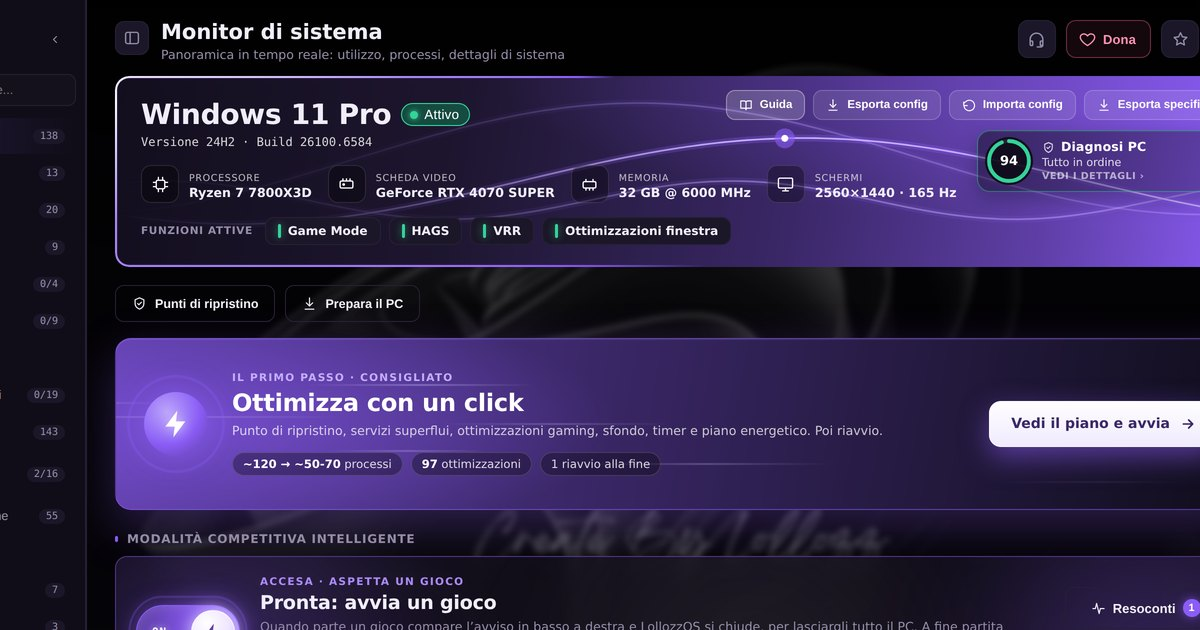
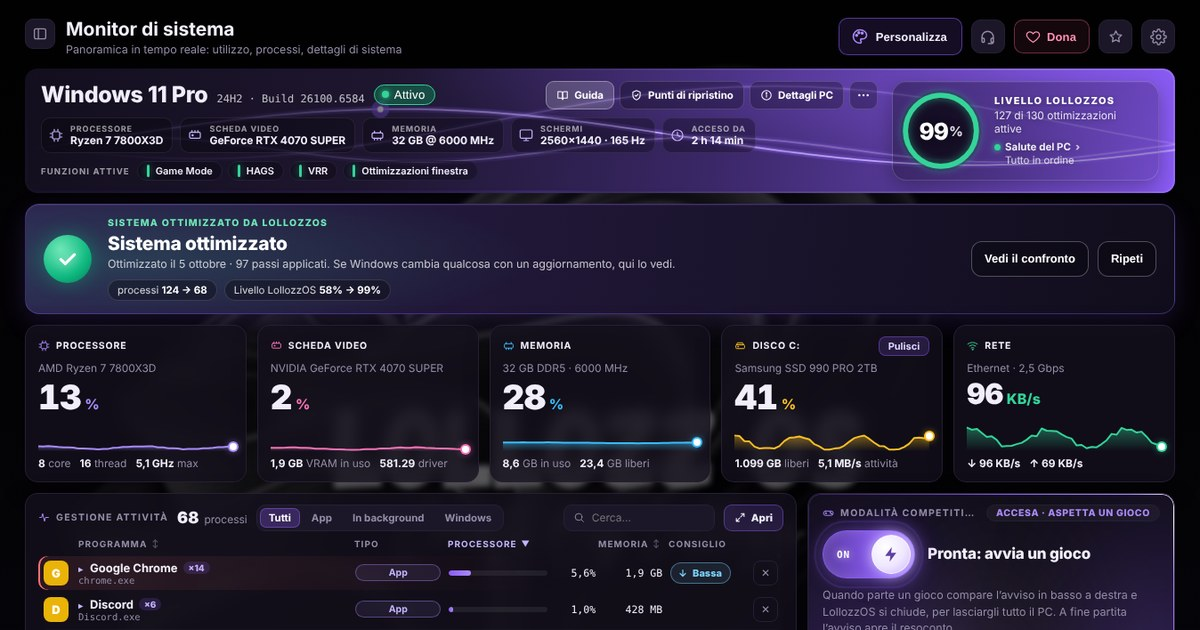
Add files via upload

diff --git a/docs/index.html b/docs/index.html
@@ -11,8 +11,8 @@
 <meta property="og:type" content="website">
 <meta property="og:title" content="LollozzOS — Il tuo PC, pronto per giocare">
 <meta property="og:description" content="Ottimizzazione di Windows per il gaming in un'app sola. Tutto reversibile. Prova gratuita di 24 ore.">
-<meta property="og:image" content="https://lollozzos.github.io/LollozzOs_Configurator/assets/og.jpg">
-<meta property="og:url" content="https://lollozzos.github.io/LollozzOs_Configurator/">
+<meta property="og:image" content="https://lollozzos.github.io/LollozzOs/assets/og.jpg">
+<meta property="og:url" content="https://lollozzos.github.io/LollozzOs/">
 <meta name="twitter:card" content="summary_large_image">
 <style>
 :root {
@@ -338,7 +338,7 @@ footer { margin-top: 90px; border-top: 1px solid var(--border); padding: 36px 0 
         <button type="button" data-lang="it" aria-pressed="true">IT</button>
         <button type="button" data-lang="en" aria-pressed="false">EN</button>
       </div>
-      <a class="btn btn-p btn-s" href="https://github.com/LollozzOS/LollozzOs_Configurator/releases/latest" data-t="scarica-s">Scarica</a>
+      <a class="btn btn-p btn-s" href="https://github.com/LollozzOS/LollozzOs/releases/latest" data-t="scarica-s">Scarica</a>
       <button class="menu-btn" type="button" id="menu-btn" aria-expanded="false" aria-controls="nav" aria-label="Menu"><svg class="i"><use href="#i-menu"/></svg></button>
     </div>
   </div>
@@ -353,7 +353,7 @@ footer { margin-top: 90px; border-top: 1px solid var(--border); padding: 36px 0 
         <h1 data-t="h1">Il tuo PC, <span class="grad">pronto per giocare.</span></h1>
         <p class="lead" data-t="lead">LollozzOS mette in un’app sola quello che di solito è sparso fra decine di script, guide e programmi: meno processi in background, rete e scheda video impostate per il gioco, configurazioni pronte per i tuoi giochi. E ogni modifica si annulla.</p>
         <div class="cta">
-          <a class="btn btn-p" href="https://github.com/LollozzOS/LollozzOs_Configurator/releases/latest"><svg class="i"><use href="#i-down"/></svg><span data-t="scarica">Scarica LollozzOS</span></a>
+          <a class="btn btn-p" href="https://github.com/LollozzOS/LollozzOs/releases/latest"><svg class="i"><use href="#i-down"/></svg><span data-t="scarica">Scarica LollozzOS</span></a>
           <a class="btn btn-g" href="https://discord.gg/gd5cT3Jw9M" target="_blank" rel="noopener"><svg class="i"><use href="#i-key"/></svg><span data-t="licenza">Ottieni la licenza</span></a>
         </div>
         <div class="nota">
@@ -364,7 +364,7 @@ footer { margin-top: 90px; border-top: 1px solid var(--border); padding: 36px 0 
         <a class="nov-link" href="#novita"><span data-t="hero-nov">Novità: il Debloat in una schermata sola e riparazioni che funzionano</span> <span aria-hidden="true">→</span></a>
       </div>
       <div class="shot rivela">
-        <img src="assets/home.jpg" width="1600" height="1000" alt="La schermata principale di LollozzOS: Windows, processore, scheda video, memoria, Diagnosi PC, Ottimizza con un click e la Modalità competitiva intelligente" data-alt-en="The LollozzOS home screen: Windows, processor, graphics card, memory, PC diagnosis, One-click optimize and Smart Competitive Mode">
+        <img src="assets/home.jpg" width="1600" height="1000" alt="La schermata principale di LollozzOS: Windows, il Livello LollozzOS, Ottimizza con un click, processore, scheda video, memoria, disco e rete in tempo reale, la Gestione attività con i consigli e la Modalità competitiva intelligente" data-alt-en="The LollozzOS home screen: Windows, the LollozzOS Level, One-click optimize, live processor, graphics card, memory, disk and network, the Task manager with tips and Smart Competitive Mode">
         <img class="firma" src="assets/lettering.png" alt="" aria-hidden="true">
       </div>
 
@@ -621,7 +621,7 @@ footer { margin-top: 90px; border-top: 1px solid var(--border); padding: 36px 0 
       <h2 data-t="fi-h">Pronto a partire?</h2>
       <p data-t="fi-p">Scaricalo, provalo 24 ore e guarda la differenza con i tuoi occhi.</p>
       <div class="cta">
-        <a class="btn btn-p" href="https://github.com/LollozzOS/LollozzOs_Configurator/releases/latest"><svg class="i"><use href="#i-down"/></svg><span data-t="scarica2">Scarica LollozzOS</span></a>
+        <a class="btn btn-p" href="https://github.com/LollozzOS/LollozzOs/releases/latest"><svg class="i"><use href="#i-down"/></svg><span data-t="scarica2">Scarica LollozzOS</span></a>
         <a class="btn btn-g" href="https://discord.gg/gd5cT3Jw9M" target="_blank" rel="noopener"><svg class="i"><use href="#i-key"/></svg><span data-t="licenza2">Ottieni la licenza</span></a>
       </div>
     </div>
@@ -637,8 +637,8 @@ footer { margin-top: 90px; border-top: 1px solid var(--border); padding: 36px 0 
       </div>
       <div class="foot-link">
         <a href="#novita" data-t="f-nov">Novità</a>
-        <a href="https://github.com/LollozzOS/LollozzOs_Configurator">GitHub</a>
-        <a href="https://github.com/LollozzOS/LollozzOs_Configurator/releases" data-t="versioni">Versioni</a>
+        <a href="https://github.com/LollozzOS/LollozzOs">GitHub</a>
+        <a href="https://github.com/LollozzOS/LollozzOs/releases" data-t="versioni">Versioni</a>
         <a href="https://discord.gg/gd5cT3Jw9M" target="_blank" rel="noopener">Discord</a>
         <a href="https://www.tiktok.com/@_lollozz_" target="_blank" rel="noopener">TikTok</a>
         <a href="https://www.instagram.com/_lollozz__" target="_blank" rel="noopener">Instagram</a>
@@ -770,8 +770,8 @@ footer { margin-top: 90px; border-top: 1px solid var(--border); padding: 36px 0 
     'legale': 'LollozzOS changes registry values, services, network settings, power plans and driver settings. It is provided as is, without warranty: read what each switch does before turning it on, and keep the restore point the app offers to create. LollozzOS is not affiliated with Microsoft or with the publishers of the games mentioned; game names and images belong to their respective owners. Some features open programs by other authors, which remain theirs and keep their own licenses.'
   };
   var DIDASCALIE = {
-    it: { home: 'La Home: il tuo PC in tempo reale, Ottimizza con un click, la Modalità competitiva intelligente e la diagnosi.', oneclick: 'Verrà installato LollozzOS: i processi di adesso, contati sul tuo PC, e la stima di quelli con LollozzOS.', installa: 'L’avanzamento nel riquadro della Home: la percentuale, il passo in corso e le fasi.', competitiva: 'Il resoconto di una partita: FPS, 1% e 0,1% low, scatti, processore e consigli.', giochi: 'Giochi: la configurazione pronta per ogni gioco, ricalcolata sul tuo PC.', aspetto: 'Colore e tema di Windows: accento, modalità, selezione e cursori in qualsiasi colore, con l’anteprima.', bios: 'BIOS: cosa c’è da sistemare, il BIOS più recente dal sito del produttore e una guida per la tua scheda madre.' },
-    en: { home: 'Home: your PC live, One-click optimize, Smart Competitive Mode and the diagnosis.', oneclick: 'LollozzOS will be installed: the processes now, counted on your PC, and the estimate with LollozzOS.', installa: 'The progress in the Home panel: the percentage, the current step and the phases.', competitiva: 'A match report: FPS, 1% and 0.1% low, stutters, processor and tips.', giochi: 'Games: the ready-made config for each game, recalculated for your PC.', aspetto: 'Windows color and theme: accent, mode, selection and cursors in any color, with a preview.', bios: 'BIOS: what needs fixing, the latest BIOS from the manufacturer’s website and a guide for your motherboard.' }
+    it: { home: 'La Home: il tuo PC in tempo reale, il Livello LollozzOS, Ottimizza con un click, la Gestione attività con i consigli e la Modalità competitiva intelligente.', oneclick: 'Verrà installato LollozzOS: i processi di adesso, contati sul tuo PC, e la stima di quelli con LollozzOS.', installa: 'L’avanzamento nel riquadro della Home: la percentuale, il passo in corso e le fasi.', competitiva: 'Il resoconto di una partita: FPS, 1% e 0,1% low, scatti, processore e consigli.', giochi: 'Giochi: la configurazione pronta per ogni gioco, ricalcolata sul tuo PC.', aspetto: 'Colore e tema di Windows: accento, modalità, selezione e cursori in qualsiasi colore, con l’anteprima.', bios: 'BIOS: cosa c’è da sistemare, il BIOS più recente dal sito del produttore e una guida per la tua scheda madre.' },
+    en: { home: 'Home: your PC live, the LollozzOS Level, One-click optimize, the Task manager with tips and Smart Competitive Mode.', oneclick: 'LollozzOS will be installed: the processes now, counted on your PC, and the estimate with LollozzOS.', installa: 'The progress in the Home panel: the percentage, the current step and the phases.', competitiva: 'A match report: FPS, 1% and 0.1% low, stutters, processor and tips.', giochi: 'Games: the ready-made config for each game, recalculated for your PC.', aspetto: 'Windows color and theme: accent, mode, selection and cursors in any color, with a preview.', bios: 'BIOS: what needs fixing, the latest BIOS from the manufacturer’s website and a guide for your motherboard.' }
   };
   var TITOLI = {
     it: ['LollozzOS — Il tuo PC, pronto per giocare', 'LollozzOS ottimizza Windows 10 e 11 per il gaming: meno processi in background, rete e GPU impostate per il gioco, configurazioni pronte per i tuoi giochi. Ogni modifica si annulla.'],

diff --git a/README.md b/README.md
@@ -10,9 +10,9 @@
 </p>
 
 <p align="center">
-  <a href="https://lollozzos.github.io/LollozzOs_Configurator/"><b>Sito</b></a> ·
+  <a href="https://lollozzos.github.io/LollozzOs/"><b>Sito</b></a> ·
   <a href="#novita"><b>Novità</b></a> ·
-  <a href="https://github.com/LollozzOS/LollozzOs_Configurator/releases/latest"><b>Scarica</b></a> ·
+  <a href="https://github.com/LollozzOS/LollozzOs/releases/latest"><b>Scarica</b></a> ·
   <a href="https://discord.gg/gd5cT3Jw9M"><b>Discord</b></a> ·
   <a href="#english">English</a>
 </p>
@@ -177,7 +177,7 @@ Windows com’era e poi toglierlo, o togliere anche backup, impostazioni e regis
 ## Installazione
 
 1. Scarica `LollozzOS_Setup_<versione>.exe` da
-   [Releases](https://github.com/LollozzOS/LollozzOs_Configurator/releases/latest).
+   [Releases](https://github.com/LollozzOS/LollozzOs/releases/latest).
 2. Avvialo e segui i passi. L’app si installa per tutti gli utenti e parte come
    amministratore.
 
@@ -318,7 +318,7 @@ The previous state is saved before each change, so everything can be undone.
 ### Install
 
 Download `LollozzOS_Setup_<version>.exe` from
-[Releases](https://github.com/LollozzOS/LollozzOs_Configurator/releases/latest)
+[Releases](https://github.com/LollozzOS/LollozzOs/releases/latest)
 and run it. The installer is not signed: if Windows SmartScreen warns you,
 choose **More info** and then **Run anyway**.
 
